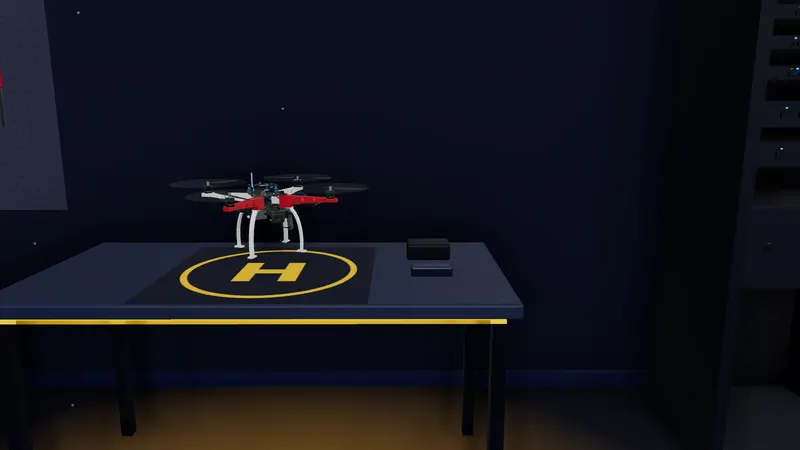
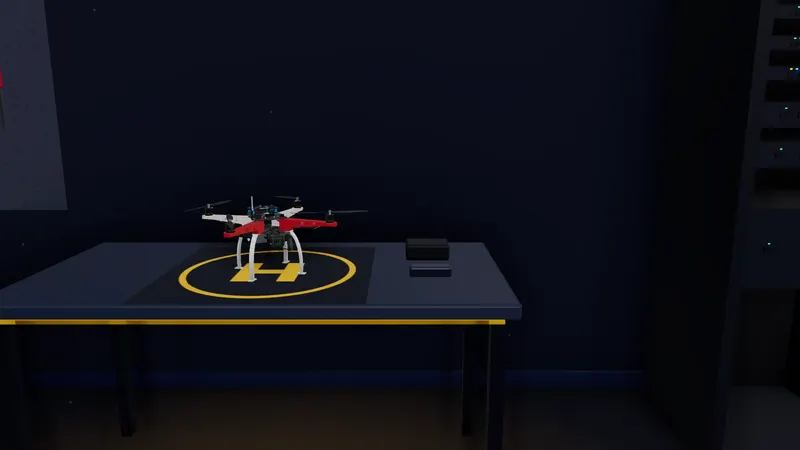
Honest studio, better first frame, chapter openers, Intel start tier
- The F450 stays on its mat in the studio (powered up, LED blinking): it has not flown, so the room does
  not show it flying (the redesign plan's honesty rule).
- The first scene turns a little left: the desk sits right of centre and the words have the empty wall to
  their left on wide screens. The monitor and laptop show the current site again; the stills and the
  link-preview card are re-rendered.
- Each project page opens over slow footage of its own station, behind a scrim (contrast measured on every
  page, both themes, desktop and phone). scripts/measure-contrast.* is the measuring tool.
- Integrated Intel graphics start on the medium tier instead of dropping from high a second after load.

Changed region(s): [[0.0625, 0.8711, 0.6875, 1.0], [0.0, 0.5911, 0.6562, 0.7467], [0.25, 0.3733, 0.4688, 0.6533]]

diff --git a/src/lib/studio/stations.ts b/src/lib/studio/stations.ts
@@ -4,7 +4,7 @@
  * Metres, y up; positions match the camera's shots in scenes.ts.
  *
  *   Robotics   the KitBot on a low rolling cart, a pegboard of tools behind it (the robot's own CAD, frc-robot.ts)
- *   Drones     the F450 on a landing mat; it lifts off and hovers while its scene is in view (drone.ts)
+ *   Drones     the F450 on a landing mat, powered up on the bench (its LED blinks; it has not flown, so it never lifts off) (drone.ts)
  *   Networks   a switch rack with blinking port lights and patch cables
  *   Web        a laptop on the bench, scrolling this site (public/studio/site.webp)
  *   The wall   one panel per project, on an arc; they turn to face the camera one after another
@@ -185,7 +185,6 @@ export function buildStations(ctx: StageContext, parent: Group, content: RoomCon
 	// A battery charger and a spare pack beside it.
 	boxAt(group, 0.16, 0.06, 0.12, dark, droneX + 0.55, benchTop + 0.03, -2.75, 0.01);
 	boxAt(group, 0.14, 0.035, 0.05, hardware({ color: 0x24324f, roughness: 0.3 }, "wrap"), droneX + 0.55, benchTop + 0.018, -2.5, 0.008);
-	let lift = 0;
 
 	/* ================================================================== */
 	/* Networks: the switch rack                                           */
@@ -600,14 +599,9 @@ export function buildStations(ctx: StageContext, parent: Group, content: RoomCon
 			// Robot: rollers turn while its scene is in view.
 			if (robot && (near.robotics ?? 0) > 0.05) robot.animate(clock, dt * (near.robotics ?? 0));
 
-			// Drone: lifts off its mat and hovers while in view; props spin up first.
-			const flying = near.drones ?? 0;
-			lift += ((flying > 0.6 ? 1 : 0) - lift) * Math.min(1, dt * 1.6);
-			if (drone) {
-				drone.animate(clock, flying > 0.05 ? dt : 0);
-				droneHolder.position.y = benchTop + ease(lift) * (0.22 + Math.sin(clock * 1.7) * 0.015);
-				droneHolder.rotation.z = Math.sin(clock * 1.1) * 0.025 * lift;
-			}
+			// Drone: stays on its mat. The build is not finished and it has not flown, so the room does not show it flying:
+			// powered up on the bench, props still, the flight controller's LED blinking.
+			drone?.animate(clock, 0);
 
 			// Rack: the port lights blink (a few times a second, not every frame).
 			ledTimer += dt;

diff --git a/src/lib/three/stage.ts b/src/lib/three/stage.ts
@@ -233,6 +233,9 @@ function startingTier(renderer: WebGLRenderer): Tier {
 	const info = gl.getExtension("WEBGL_debug_renderer_info");
 	const gpu = String(info ? gl.getParameter(info.UNMASKED_RENDERER_WEBGL) : gl.getParameter(gl.RENDERER));
 	if (/swiftshader|llvmpipe|software|basic render/i.test(gpu)) return "low";
+	// Integrated Intel graphics (Iris, UHD): the plan's target laptop. Ambient occlusion at full resolution would run
+	// slowly for the first second and then be dropped on screen, so start on medium. (Intel Arc is a discrete GPU.)
+	if (/intel/i.test(gpu) && !/arc/i.test(gpu)) return "medium";
 	const coarse = matchMedia("(pointer: coarse)").matches;
 	if (coarse && Math.max(screen.width, screen.height) < 1000) return "low"; // phones
 	if (coarse) return "medium"; // tablets

diff --git a/src/lib/studio/scenes.ts b/src/lib/studio/scenes.ts
@@ -16,8 +16,8 @@ export interface SceneShot {
 }
 
 export const SHOTS: Record<string, SceneShot> = {
-	/** 0 Title: the desk from across the room, under the lamp, with the logo on the wall. */
-	title: { id: "title", camera: [-6.0, 1.45, 2.3], target: [-6.0, 1.45, -2.6] },
+	/** 0 Title: the desk from across the room, under the lamp, with the logo on the wall; turned a little left, so the desk sits right of centre and the words have the empty wall beside it. */
+	title: { id: "title", camera: [-6.0, 1.45, 2.3], target: [-6.9, 1.45, -2.6] },
 	/** 1 Sketch: above the desk, looking down into the open sketchbook. */
 	sketch: { id: "sketch", camera: [-6.3, 1.62, -1.45], target: [-6.32, 0.79, -2.32] },
 	/** 2 Research: slid right to the monitor. */

diff --git a/scripts/measure-contrast.py b/scripts/measure-contrast.py
@@ -1,0 +1,37 @@
+# Companion to measure-contrast.mjs: reads its JSON and prints the contrast of each text box over what is behind it.
+# Usage: python scripts/measure-contrast.py OUTDIR/c-THEME-WIDTH.json [HOW_MANY_TO_LIST]
+import json, sys
+from PIL import Image
+def lin(c):
+    c/=255
+    return c/12.92 if c<=0.04045 else ((c+0.055)/1.055)**2.4
+def lum(r,g,b): return 0.2126*lin(r)+0.7152*lin(g)+0.0722*lin(b)
+def ratio(a,b):
+    hi,lo=max(a,b),min(a,b)
+    return (hi+0.05)/(lo+0.05)
+data=json.load(open(sys.argv[1]))
+worst=[]
+for sc in data:
+    im=Image.open(sc['shot']).convert('RGB'); W,H=im.size
+    for it in sc['items']:
+        x0,y0=int(max(0,it['x'])),int(max(0,it['y'])); x1,y1=int(min(W,it['x']+it['w'])),int(min(H,it['y']+it['h']))
+        if x1<=x0 or y1<=y0: continue
+        box=im.crop((x0,y0,x1,y1))
+        px=list(box.get_flattened_data()) if hasattr(box,'get_flattened_data') else list(box.getdata())
+        step=max(1,len(px)//400)
+        rs=[]
+        tr,tg,tb=it['color']; a=it['alpha']
+        tl=None
+        for (r,g,b) in px[::step]:
+            er=tr*a+r*(1-a); eg=tg*a+g*(1-a); eb=tb*a+b*(1-a)
+            rs.append(ratio(lum(er,eg,eb),lum(r,g,b)))
+        rs.sort()
+        low=rs[max(0,int(len(rs)*0.03))]   # 3rd percentile: ignores a few stray pixels
+        big = it['size']>=24 or (it['size']>=18.66 and it['weight']>=700)
+        need=3.0 if big else 4.5
+        worst.append((low,need,sc['scene'],it['text'],round(it['size']),it['weight'],round(a,2)))
+worst.sort()
+fails=[w for w in worst if w[0]<w[1]]
+print(f"{len(worst)} text boxes, {len(fails)} below AA (worst {worst[0][0]:.2f})" if worst else "no text")
+for w in (fails or worst)[:int(sys.argv[2]) if len(sys.argv)>2 else 12]:
+    print(f"  {w[0]:.2f} (need {w[1]})  scene={w[2]}  size={w[4]} w={w[5]} a={w[6]}  \"{w[3]}\"")

diff --git a/SHOWCASE.md b/SHOWCASE.md
@@ -44,8 +44,8 @@ Every 3D view on the site (the showcases and the plain viewers) runs on the shar
 
 | Tier | Who starts on it | What it draws |
 | :-- | :-- | :-- |
-| high | laptops and desktops | 4x MSAA render target, ground-truth ambient occlusion (GTAO, full resolution), soft contact shadows, the full material finishes, up to 2x device pixels (at most 4.6 MP) |
-| medium | tablets, or after a drop from high | the canvas's own MSAA, soft contact shadows, the full finishes, up to 1.5x device pixels |
+| high | laptops and desktops with their own or Apple graphics | 4x MSAA render target, ground-truth ambient occlusion (GTAO, full resolution), soft contact shadows, the full material finishes, up to 2x device pixels (at most 4.6 MP) |
+| medium | tablets and laptops with integrated Intel graphics (Iris, UHD), or after a drop from high | the canvas's own MSAA, soft contact shadows, the full finishes, up to 1.5x device pixels |
 | low | phones, saveData, 2 GB of memory or 2 cores, software GL; or after a drop from medium | plain renderer, round blob shadows, standard materials, up to 1.25x device pixels |
 
 - **Look on every tier:** ACES filmic tone mapping (AgX washed the CAD's reds and yellows out), a generated studio environment (RoomEnvironment, nothing downloaded), and a key, fill and rim light that ride on the camera, so every angle is lit. Light and dark themes have their own exposure and light balance.
@@ -109,7 +109,7 @@ text panels, ruler, keyboard, loop), `src/lib/studio/engine.ts` (camera), `room.
 | 0 | Title | the desk from across the room; the lamp switches on |
 | 1 | Sketch | the sketchbook draws the F450 from its real numbers |
 | 2 | Research | the monitor scrolls the build guide (a screenshot of the real page) |
-| 3 | Robotics, Drones, Networks, Web | KitBot on a cart (its CAD), the F450 lifting off its mat (its CAD), a switch rack with blinking ports, a laptop and phone scrolling this site |
+| 3 | Robotics, Drones, Networks, Web | KitBot on a cart (its CAD), the F450 on its landing mat, powered up but not flying: it has not flown yet (its CAD), a switch rack with blinking ports, a laptop and phone scrolling this site |
 | 4 | Selected work | one panel per project on a curved wall; they turn to face you |
 | 5 | Standards | the whiteboard writes out the standards and the three steps |
 | 6 | Timeline | the long window, a year on each pane (2023 and 2024 tagged "Before JPL") |
@@ -138,3 +138,20 @@ scrolling and nothing is hijacked; the panel in front lifts and its project's ca
 card) to open the project: the camera pushes into it, then the page changes. Left and Right arrows and the ruler move
 along the wall. Under it is the plain list of the same projects as ordinary links (and read mode's whole page: under 768 px,
 reduced motion, no WebGL, or Settings). A new project is one file in `src/text/projects/` and the wall grows by itself.
+
+# Accessibility and how it is checked
+
+- **Contrast over pictures and the 3D scene is measured, not guessed.** axe cannot judge text over an image or a
+  canvas, so `scripts/measure-contrast.mjs` + `measure-contrast.py` hide the words, photograph what is behind each
+  text box and compute the WCAG ratio against the word's own colour. Every studio scene (both themes, 1440 and 768
+  wide), the Work wall, About and the four project pages pass 4.5:1 (3:1 for large text). Re-run it after changing the
+  glass, the scrims or the room's lighting. What makes it pass: the scene cards and rulers are glass with a strong
+  tint (88 to 90% on the light theme), About's and the chapters' footage sits under a scrim from the text's side, the
+  light theme's blue tags and ruler marks are darker blues.
+- **axe-core** (run from outside the repo, `npm i axe-core`) reports no violations on any page, theme or width.
+- **Every scene is in the accessibility tree and the tab order.** Inactive scenes are only transparent (and ignore the
+  pointer), not hidden: a screen reader reads all twelve in order, Tab moves through every link and the camera follows
+  the focus; the current scene is announced politely once the camera settles.
+- **No JavaScript?** The studio and the Work wall start as ordinary pages; the switch to 3D runs before the first paint.
+- **Chapter openers** (`src/components/ChapterBackdrop.astro`): each project page opens over slow footage of its own
+  station (the studio renders in `public/studio/scenes/`), behind a scrim.

diff --git a/README.md b/README.md
@@ -33,6 +33,7 @@ Use **npm** (not bun): `package-lock.json` holds the esbuild/rollup overrides.
 | `python scripts/studio-screens.py` | the build guide and site screenshots shown on the monitor and laptop in the studio |
 | `node scripts/make-og.mjs` | `public/assets/og-studio.jpg`, the link-preview picture |
 | `python scripts/showcase-stills.py` | the drone and robot showcases' stills |
+| `node scripts/measure-contrast.mjs` + `python scripts/measure-contrast.py` | not a picture: measures text contrast over the 3D scene and over photos (how: `SHOWCASE.md`) |
 
 Each needs `npm run build && npx astro preview` running (the scripts say how).
 - `src/styles/global.css` — colour tokens (light + dark), fonts, chart colours.
